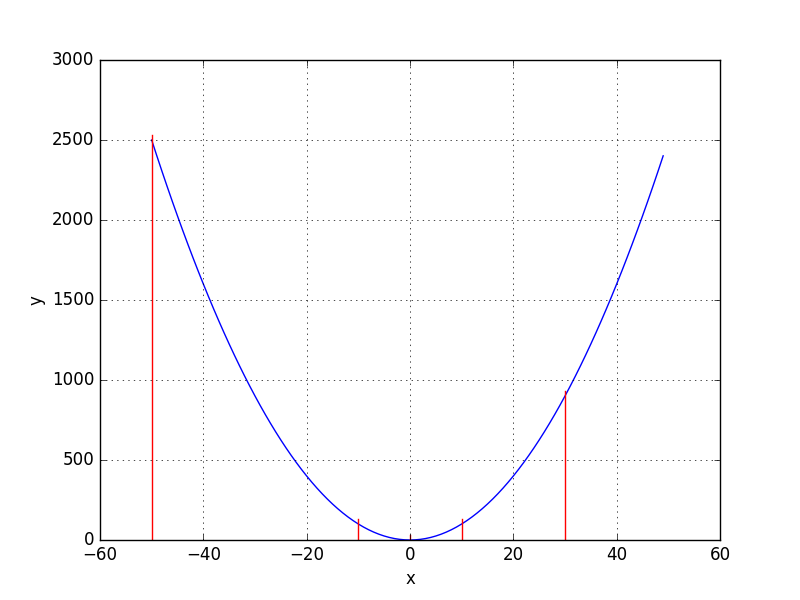
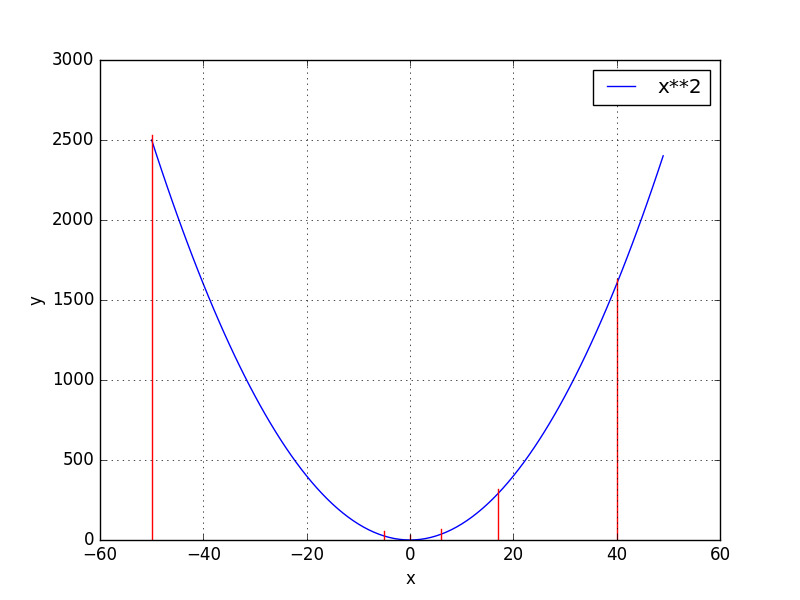
updated doc and algorithms (labeling and cleanup)

diff --git a/doc/report.tex b/doc/report.tex
@@ -34,7 +34,7 @@
 \maketitle
 
 \section{Einführung}
-Im Rahmen des Kurses Analysis haben wir uns mit verschiednen Optimierungsaufgaben vertraut gemacht. Die grundlegende Technik, die wir dazu verwendeten, war die 1. Ableitung gleich 0 zu setzen, damit wir ein optimales Ergebnis für ein konkretes Problem erhielten. In diesem Bericht befassen wir uns näher mit Algorithmen, welche es ermöglichen Extremalstellen zu berechnen. Zudem diskutieren wir anhand von diversen Aufgabenstellungen, wie diese zur Anwendung kommen können. Durch diverse Visualisierungen versuchen wir mit diesem Bericht versuchen wir die Ergebnisse bildlich darzustellen, was aus unserer Sicht auch zu einer glaubwürdigeren Diskussion führen wird.
+Im Rahmen des Kurses Analysis haben wir uns mit verschiednen Optimierungsaufgaben vertraut gemacht. Die grundlegende Technik, die wir dazu verwendeten, war die 1. Ableitung gleich 0 zu setzen, damit wir ein optimales Ergebnis für ein konkretes Problem erhielten. In diesem Bericht befassen wir uns näher mit Algorithmen, welche es ermöglichen Extremalstellen zu berechnen. Zudem diskutieren wir anhand von diversen Aufgabenstellungen, wie diese zur Anwendung kommen können. Durch diverse Visualisierungen versuchen wir mit diesem Bericht versuchen wir die Ergebnisse bildlich darzustellen, was aus unserer Sicht auch zu einer glaubwürdigeren Diskussion führen wird und die Probleme gut veranschaulichen lassen.
 
 \section{Motivation}
 Da es in unserer Umgebung sehr viele Problemstellungen gibt, bei denen jeweils ein Optimum gesucht ist, sehen wir in dieser Arbeit eine konkrete und relativ einfache Anwendung der Ableitungen. Die Algorithmen, welche wir mit Python umgsetzt haben, sind wiederverwendbar, da wir sie so weit als möglich versuchten, zu parametrisieren. 
@@ -50,7 +50,7 @@ Durch diese Methode wird im generellen versucht, sich an eine Extremalstelle anz
     f(x)=x^2
 \]
 
-Abbildung X verdeutlicht anhand der quadratischen Funtkion das `Abtasten' und Annähern an eine Extremalstelle. Durch das festgesetzte Lambda wir die Granularität festgesetzt, also den Abstand zum vorangehenden Punkt. Dies hat natürlich Konsequenzen auf die Laufzeit unseres Algorithmus. Wir werden die Laufzeiten der verschiednen Verfahren in den nachfolgenden Kapitel gegenüberstellen und auswerten. 
+Abbildung~\ref{gradientx} verdeutlicht anhand der quadratischen Funtkion das `Abtasten' und Annähern an eine Extremalstelle. Durch das festgesetzte Lambda wird das Offset für die verschiedenen Punkte festgesetzt. Dies hat je nach Konfiguration dieses Parameters Konsequenzen auf die Laufzeit unseres Algorithmus. Im nachfolgenden Abschnitt werden wir versuchen, Lambda sinnvoll zu bestimmen.
 
 \begin{figure}[!ht]
     \centering
@@ -59,32 +59,39 @@ Abbildung X verdeutlicht anhand der quadratischen Funtkion das `Abtasten' und An
 \end{figure}
 
 \paragraph{Laufzeit}
-Da die Laufzeit von der Entfernung abhängt, welche zwischen dem gewählten Punkt und der Extremalstelle definiert ist, und wir des weiteren auch Lambda als Parameter berücksichtigen müssten, ist es uns nicht gelungen, die Laufzeit in der Big-Oh Notation auszudrücken.
+Da die Laufzeit von der Entfernung abhängt, welche zwischen dem gewählten Punkt und der Extremalstelle definiert ist, und wir des weiteren auch Lambda als Parameter berücksichtigen müssten, ist es uns nicht gelungen, die Laufzeit in der Big-O Notation auszudrücken.
 
 Dafür implementierten wir für diesen Algorithmus eine Schlaufe, welche mit unterschiedlichen Lambdas die Zeit misst. Dies setzten wir anhand der obigen Funktion $x^2$ um. Folgende Messwerte erhalten wir:\\
 
 \lstinputlisting[language=bash]{grad_time.out}
 
 
-Wie wir aus dem obigen Output entnehmen können, sind sowohl $0.0001$ wie auch $1$ nicht sinnvoll für die Verwendung von Lambda. Die obigen Berechnungen wurden mit der quadratischen Funktion $x**2$ durchgeführt und als Anfangspunkt wurde $x=-5$ gwählt. Dieser hat jedoch keinen Einfluss, da die Berechnungen immer relativ zueinander stehen. 
+Die obigen Berechnungen wurden mit der quadratischen Funktion $x**2$ durchgeführt und als Anfangspunkt wurde $x=-5$ gwählt. Dieser hat jedoch keinen Einfluss, da die Berechnungen immer relativ zueinander stehen. 
+Wie wir aus dem Output entnehmen können, sind sowohl $0.0001$ wie auch $1$ nicht sinnvoll für die Verwendung von Lambda. Zum Einen ist bei der Wahl eines kleinen Wertes für Lambda die Laufzeit stark negativ beeinträchtigt. Jedoch ist das Resultat sehr genau. Wählen wir eine grössere Zahl für Lamdba, so ist ersichtlich, dass die Genauigkeit nicht mehr gewährleistet ist, da der Algorithmus in grösseren Schriten sich an die Nullstelle annähert. 
 
 \paragraph{Bedingungen}
-In Abbildung~\ref{gradientx} wird veranschaulicht, wie der Algorithmus funktioniert. Als Vorbedingung ist ein Startpunkt notwenig, welcher zwingend links von einer Extremalstelle liegt. Ausserdem muss mit diesem trivialen Algorithmus vorher sichergestellt werden, dass die Funktion überhaupt Extremalstellen besitzt, was ansosten zu einem unendlichen Loop führen kann. In unserem Beispiel mit der quadratischen Funktion $x^2$ wählen wir zum Beispiel den Punkt $x=-5$ aus. Wir können uns versichern, dass der Punkt links von einer Extremalstelle liegt und die Funktion überhaupt eine Extremalstelle besitzt. Natürlich ist diese von blossem Auge sofort erkennbar. 
+In Abbildung~\ref{gradientx} wird veranschaulicht, wie der Algorithmus funktioniert. Als Vorbedingung ist ein Startpunkt notwenig, welcher zwingend links von einer Extremalstelle liegt. Ausserdem muss mit diesem trivialen Algorithmus vorher sichergestellt werden, dass die Funktion überhaupt Extremalstellen besitzt, was ansosten zu einem unendlichen Loop führen kann. Des Weiteren sagt das Vorzeichen von Lambda aus, nach welcher Art von Extremstelle gesucht werden soll. In unserem Beispiel mit der quadratischen Funktion $x^2$ wählen wir zum Beispiel den Punkt $x=-5$ aus. Wir können uns versichern, dass der Punkt links von einer Extremalstelle (links) liegt und die Funktion überhaupt eine Extremalstelle besitzt. Natürlich ist diese von blossem Auge sofort erkennbar. 
+Wir fassen zusammen:
+\begin{itemize}
+\item Punkt muss links von Extremalstelle liegen
+\item Typ von gesuchter Extremalstelle muss bekannt sein (Minimum oder Maximum)
+\item Lambda wird wie folgt gewählt: $Lambda > 0 = Minimumsuche, Lambda > 0 = Maximumsuche$
+\end{itemize}
 
 \paragraph{Funktion von Lambda}
-Der Algorithmus beginnt also vom Punkt $x=-5$ an, die 1. Ableitung zu berechnen. Hat er diese berechnet und ist diese ungleich 0, so wird mit Lambda ein neuer Punkt definiert, welcher sich etwas weiter Rechts auf der x-Achse befindet. Der Algorithmus ist so aufgebaut, dass er eine gewisse Genauigkeit aufweisen muss, um eine Extremalstelle eindeutig zu identifizieren. Diese Genauigkeit muss *unbedingt* kleiner sein als Lambda, da sonst die Stelle einfach übersprungen werden kann.
+Der Algorithmus beginnt also vom Punkt $x=-5$ an, die 1. Ableitung zu berechnen. Hat er diese berechnet und ist diese ungleich 0, so wird mit Lambda ein neuer Punkt definiert, welcher sich etwas weiter Rechts auf der x-Achse befindet. Der Algorithmus ist so aufgebaut, dass er eine gewisse Genauigkeit aufweisen muss, um eine Extremalstelle eindeutig zu identifizieren. Diese Genauigkeit muss unbedingt kleiner sein als Lambda, da sonst die Stelle einfach übersprungen werden kann.
 
 \subsubsection{Nelder-Mead}
-Der Nelder-Mead algrithmus versucht basierend auf zwei original gegebenen Punkten ein Extrema zu finden. Er erreicht das Ziel in dem er basierend auf den originalen Punkten weitere Punkte generiert und analysiert ob die Punkte kleiner (resp. grösser) sind und ruft sich dann erneut auf mit einem der extremeren Punkten.
+Der Nelder-Mead Algrithmus versucht basierend auf zwei original gegebenen Punkten ein Extrema zu finden. Er erreicht das Ziel in dem er basierend auf den originalen Punkten weitere Punkte generiert und analysiert, ob die Punkte kleiner (respektive grösser) sind und ruft sich dann erneut auf mit einem der extremeren Punkten.
 
 \paragraph{Laufzeit}
 Der Algorithmus läuft im schlechtesten Fall in $O(n^2)$ $^1$
 
 \paragraph{Bedingungen}
-Da der Nelder-Mead sich auch Punkte ausserhalb der angegebenen Punkte sucht muss die funktion auch ausserhalb dieser Punkte definiert sein oder allenfalls so konstruiert werden, dass diese Punkte nicht in Betracht gezogen werden.
+Da der Nelder-Mead sich auch Punkte ausserhalb der angegebenen Punkte sucht, muss die Funktion auch ausserhalb dieser Punkte definiert sein oder allenfalls so konstruiert werden, dass diese Punkte nicht in Betracht gezogen werden.
 
 \subsubsection{Nullstelle der Ableitung}
-Durch den Bisektionsalgorithmus kann mithilfe der Ableitung eine Nullstelle, das heisst eine Extremalstelle ermittelt werden. Mithilfe eines anderen Algorithmus, in unserem Falle der Bisektionsalgorithmus, näheren wir uns ähnlich wie mit dem Gradientenverfahren an die Nullstelle an. 
+Durch den Bisektionsalgorithmus kann mithilfe der Ableitung eine Nullstelle, dass heisst eine Extremalstelle ermittelt werden. Durch den Gebrauch eines anderen Algorithmus, in unserem Falle der Bisektionsalgorithmus, näheren wir uns ähnlich wie mit dem Gradientenverfahren an die Nullstelle an. 
 
 \begin{figure}[!ht]
     \centering
@@ -162,28 +169,27 @@ Aus Abbildung~\ref{lifeguard_100} ist ersichtlich, an welcher Stelle $x$ optimal
 
 
 \subsection{Versicherungsprämienrechner}
-Eine Versicherung will herausfinden bei welcher Prämie ihr Gewinn maximal ist. Der Durchschnittliche Schadensbetrag der Kunden liegt bei 103CHF. Interpoliert man die zur Verfügung gestellten Daten erhält man folgende Graphen.
+Eine Versicherung will herausfinden bei welcher Prämie ihr Gewinn maximal ist. Der Durchschnittliche Schadensbetrag der Kunden liegt bei CHF 103. Interpoliert man die zur Verfügung gestellten Daten erhält man folgende Graphen.
 \begin{figure}[!ht]
     \centering
     \includegraphics[width=0.9\textwidth]{customres}
     \caption{Kunden im Bezug auf Prämien}\label{customers}
 \end{figure}
 Die Unterschiede zeigen sich durch Art der Interpolation. Es wurden eine Lineare, eine Quadratische und schlussendlich noch eine kubische Interpolation gemacht. \\
-Nun muss der Gesamtgewinn berechnet werden. Die Formel dafür ist schnell gefunden: $Gewinn = Pr\ddot{a}mie*Kunden - Schaden*Kunden$ Diese Formel sagt aleine sehr wenig aus. Der entscheidende Faktor hierbei ist die Anzahl Kunden, welche wir noch haben bei einer Prämie. Also ist die Funktion um die Kunden im verhältnis zur prämie herauszufinden um einiges relevanter für diesen Anwendungsfall.
+Nun muss der Gesamtgewinn berechnet werden. Die Formel dafür ist schnell gefunden: $Gewinn = Pr\ddot{a}mie * Kunden - Schaden*Kunden$ Diese Formel sagt aleine sehr wenig aus. Der entscheidende Faktor hierbei ist die Anzahl Kunden, welche wir noch haben bei einer Prämie. Also ist die Funktion um die Kunden im verhältnis zur prämie herauszufinden um einiges relevanter für diesen Anwendungsfall.
 Je nach verwendeter Interpolationsart erhält man verschiedene Resultate: \\
 \begin{itemize}
-    \item Linear: Bei einer Prämie von 181CHF wird ein Gewinn von 340392CHF erwirtschaftet.
-    \item Quadratisch: Bei einer Prämie von 184CHF wird ein Gewinn von 323214CHF erwirtschaftet.
-    \item Kubisch: Bei einer Prämie von 187CHF wird ein Gewinn von 323051CHF erwirtschaftet.
+    \item Linear: Bei einer Prämie von CHF 181 wird ein Gewinn von CHF 340'392 erwirtschaftet.
+    \item Quadratisch: Bei einer Prämie von CHF 184 wird ein Gewinn von CHF 323'214 erwirtschaftet.
+    \item Kubisch: Bei einer Prämie von CHF 187 wird ein Gewinn von CHF 323'051 erwirtschaftet.
 \end{itemize}
 Den Unterschied in den Prämien und dem Profit kann in diesem Grafen gut erkannt werden.
 \begin{figure}[!ht]
     \centering
     \includegraphics[width=0.9\textwidth]{profit}
-    \caption{Der Gesamtgewinn}
-    \label{fig:figure1}
+    \caption{Der Gesamtgewinn}\label{fig:figure1}
 \end{figure}
-Mann erkennt, das die lineare Interpolation zu einigen Ecken in der Kurve führt, was hier sicher nicht das gewünschte Resultat ist, ausser wenn diese ein spezifisches Ereigniss darstellen.(z.b. man wird teurer als eine andere Versicherung.) Da dies hier wahrscheinlich nicht der Fall ist, kann die Lineare Version meiner meinung nach ignoriert werden. Der Unterschied zwischen der quadratischen und kubischen Implementation bei der Prämie, welche den höchsten Gewinn erziehlt liegt bei 3CHF und kann ebenfalls ignoriert werden.
+Mann erkennt, das die lineare Interpolation zu einigen Ecken in der Kurve führt, was hier sicher nicht das gewünschte Resultat ist, ausser wenn diese ein spezifisches Ereigniss darstellen (zum Beispiel man wird teurer als eine andere Versicherung.) Da dies hier wahrscheinlich nicht der Fall ist, kann die Lineare Version meiner meinung nach ignoriert werden. Der Unterschied zwischen der quadratischen und kubischen Implementation bei der Prämie, welche den höchsten Gewinn erziehlt liegt bei CHF 3 und kann ebenfalls ignoriert werden.
 \subsubsection{Diskussion des Resultats} % (fold)
 \label{ssub:diskussion_des_resultats}
 Das erhaltene Resultat funktioniert aus meiner Sicht nur für eine Versicherung möglich, welche ein Monopol auf dem Gebiet hat, in welchem Sie agiert. Dies ist klar erkennbar daran, dass die Kunden im verhältnis zur Prämie eine schöne Funktion bilden. Bei einer Versicherung mit Konkurenz sollten eigentlich Einbrüche erkennbar sein, wenn man Teurer als eine andere Versicherung wird und diese über den selben Umfang verfügt. \\
@@ -196,14 +202,14 @@ Allgemein ist es ein sehr grundsätzliches Modell, welches in der Praxis so nich
 Alle Methoden können als Hilfestellung für die Findung von Extremalstellen verwendet werden. Durch ihre unterschiedlichen Voraussetzungen ist aber nicht jede der Methoden gleich gut für eine Problemstellung geeignet. Beim Bisektionsalgorithmus ist die Voraussetzung, dass ein Intervall bekannt ist, in welchem eine Extremalstelle liegen muss. Ausserdem muss sichergestellt sein, dass nur eine solche Stelle darin liegt. Was zunächst als massive Einschränkung aufgenommen werden kann, kann in der Realität möglicherweise sogar als Vorteil betrachet werden, sofern die Punkte im Kontext einfach bestimmt werden können.\\
 Ähnlich wie der Bisektionsalgorithmus verhält sich das Gradientenverfahren. Bei dieser Methode ist vorausgsetzt, dass ein Punkt bekannt ist, welcher links von einer Extremalstelle liegt. Der Algorithmus könnte für eine bestimmte Anwendung so erweitert werden, dass ein Punkt gewählt wird, welcher über eine gefundene Extremalstelle hinaus weitersucht. Dort sieht sich aber die Gefahr, dass der nächste Punkt viel weiter weg sein könnte, was eine höhere Laufzeit zur Folge hätte.\\
 Beim Nelder-Mead Algorithmus sehen wir den Vorteil, dass wir ausser zwei frei wählbare Zahlen nichts benötigen, um eine Extremalstelle zu bestimmen.
-\subsubsection{Vorteile}
-\subsubsection{Nachteile}
+\subsubsection{Vorteile/Nachteile}
+Für die Gegenüberstellung von Vor- und Nachteilen der einzelnen Algorithmen muss deutlich hervorgehoben werden, dass der Anwendungsbereich bestimmt, welcher Algorithmus sich am Besten eignet. Generell kann man sagen, dass der Nelder-Mead Algorithmus dank den wenigen zu erfüllenden Vorbedingungen wohl als beste Lösung abschneidet. 
 \subsubsection{Gegenüberstellung der Laufzeiten}
 Einen direkten Vergleich der Laufzeiten an sich ist heikel. Wir können aus den obigen Diskussionen entnehmen, dass beim einfachen Gradientenverfahren ein Zeitverlust akzeptiert werden muss, falls der Startpunkt sich sehr weit von der Extremalstelle weg befindet. Anders als das Bisektions- und Gradientenverfahren verwendet der Nelder-Mead Algorithmus die 1. Ableitung nicht. Dies führt zu einem Zeitgewinn, welchen wir nicht direkt gemessen haben, aber trotzdem erahne lässt, dass dies ein Vorteil verschafft.
 
 \section{Referenzen}
 \begin{list}{}{}
-\item http://www.b-landau.de/simplex-algorithmus/
+\item $^1$ http://www.b-landau.de/simplex-algorithmus/
 \end{list}
 
 

diff --git a/gradientenverfahren.py b/gradientenverfahren.py
@@ -4,22 +4,25 @@ import matplotlib.pyplot as plt
 import time
 
 
-def algorithm(lmbda):
+def algorithm(point, lmbda):
     fhelper.func = "x**2"  # raw_input("Enter function: ")
 
     x_range = np.arange(-50, 50)
     fig = plt.figure()
     ax = fig.add_subplot(111)
-    ax.plot(x_range, [fhelper.f(value) for value in x_range])
 
-    point = -5
+    plt_func, = ax.plot(x_range, [fhelper.f(value) for value in x_range], label=fhelper.func)
+    plt.legend(handles=[plt_func])
+
+    # Algorithm
     df_result = fhelper.df(point)
-    while abs(df_result) > lmbda * 0.1:
+    while abs(df_result) > abs(lmbda * 0.1):
         df_result = fhelper.df(point)
         point -= lmbda * df_result
 
     print("Extremalstelle bei x = %f" % point)
 
+    # Plot approximation
     point1 = -40
     x_range_tan = np.arange(point1 - 20, point1 + 20)
     ax.plot(x_range_tan, fhelper.tan(x_range_tan, point1))
@@ -38,7 +41,8 @@ def algorithm(lmbda):
 
 
 def main():
-    algorithm(0.001)
+    algorithm(-5, 0.01)
+    
     # values = np.arange(0.0001, 2, 0.05)
     # for lmdba in values:
     # print("Run with lambda = %s --------------------------------" % lmdba)

diff --git a/lifeguard.py b/lifeguard.py
@@ -2,8 +2,6 @@ import numpy as np
 import functionhelper.function as fhelper
 import matplotlib.pyplot as plt
 
-global ax
-
 
 def main():
     fhelper.func = "math.sqrt(100**2+(2*100-x)**2)/2.1+math.sqrt(100**2+x**2)/4.1"
@@ -11,7 +9,8 @@ def main():
     x_range = np.arange(-150, 400)
     fig = plt.figure()
     ax = fig.add_subplot(111)
-    ax.plot(x_range, [fhelper.f(value) for value in x_range])
+    plt_func, = ax.plot(x_range, [fhelper.f(value) for value in x_range], label='Equation (6)')
+    plt.legend(handles=[plt_func])
 
     plt.grid(True)
     ax.set_xlabel("Way [x]")

diff --git a/bisection.py b/bisection.py
@@ -14,7 +14,8 @@ def main():
     fig = plt.figure()
     global ax
     ax = fig.add_subplot(111)
-    ax.plot(x_range, [fhelper.f(value) for value in x_range])
+    plt_func, = ax.plot(x_range, [fhelper.f(value) for value in x_range], label=fhelper.func)
+    plt.legend(handles=[plt_func])
 
     ax.plot((a, a), (0, fhelper.f(a) + 30), 'r-')
     ax.plot((b, b), (0, fhelper.f(b) + 30), 'r-')
